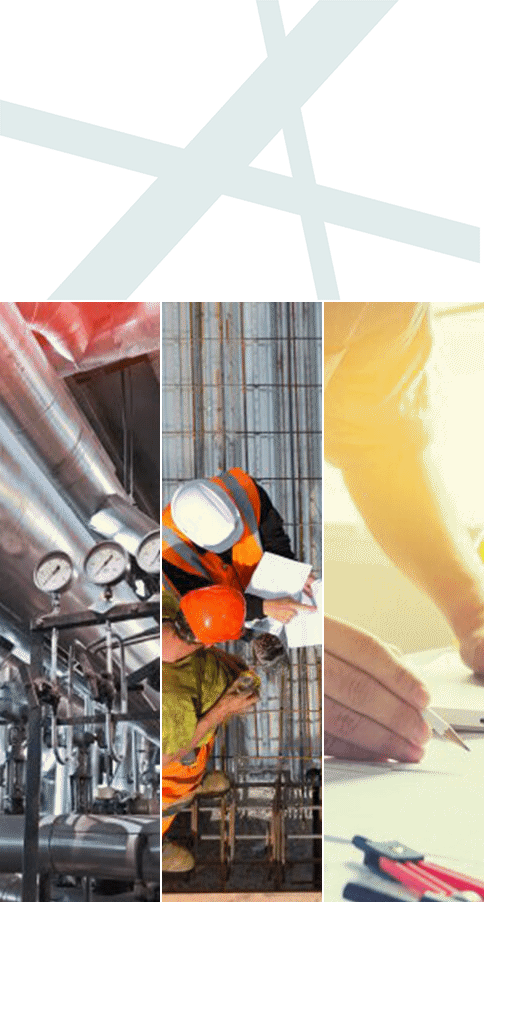
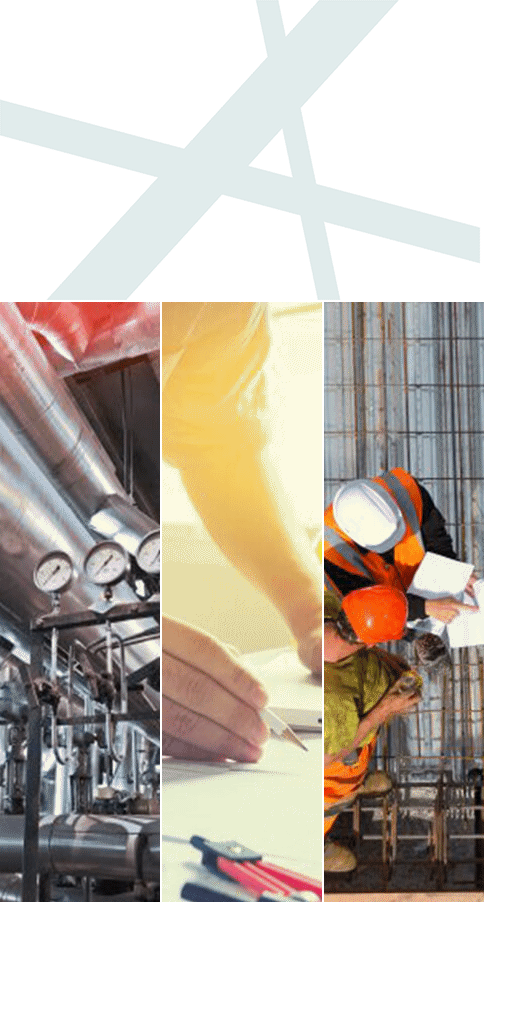
Add files via upload

diff --git a/projector_160x600.js b/projector_160x600.js
@@ -3,7 +3,7 @@
 var p; // shortcut to reference prototypes
 var lib={};var ss={};var img={};
 lib.ssMetadata = [
-		{name:"projector_160x600_atlas_", frames: [[324,302,160,600],[0,302,160,600],[162,302,160,600],[0,0,480,300]]}
+		{name:"projector_160x600_atlas_", frames: [[162,302,160,600],[0,302,160,600],[324,302,160,600],[0,0,480,300]]}
 ];
 
 
@@ -532,164 +532,164 @@ function getMCSymbolPrototype(symbol, nominalBounds, frameBounds) {
 
 	// Layer_1
 	this.shape = new cjs.Shape();
-	this.shape.graphics.f("#1F4340").s().p("AgHA7IAAgSIAPAAIAAASgAgEAYIgBgPIgCgyIAAgQIAPAAIAAAQIgCArIAAAMIgBAKg");
-	this.shape.setTransform(-28.7,382.9);
+	this.shape.graphics.f("#1F4340").s().p("AgHA6IAAgRIAPAAIAAARgAgEAYIgBgPIgCgyIAAgRIAPAAIAAARIgCArIAAAMIgBAKg");
+	this.shape.setTransform(-28.7,392.9);
 
 	this.shape_1 = new cjs.Shape();
 	this.shape_1.graphics.f("#1F4340").s().p("AgHA4IAAhJIgSAAIAAgMIASAAIAAgaIAMAAIAAAaIAVAAIAAAMIgVAAIAABJg");
-	this.shape_1.setTransform(-32.4,383.1);
+	this.shape_1.setTransform(-32.4,393.1);
 
 	this.shape_2 = new cjs.Shape();
 	this.shape_2.graphics.f("#1F4340").s().p("AgOAsIgQgCIAAgMQARACAOAAQAIAAAEgBQAEgBACgDQABgDAAgFIgBgHQAAgBgBAAQAAgBAAAAQgBgBAAAAQAAgBgBAAIgHgBIgWgDQgHAAgFgDQgEgCgCgFQgBgEAAgIQAAgLAEgGQAEgFAHgCQAHgCALAAIAOABIANACIAAAMQgNgCgOAAIgLABQgEAAgCADQgDADAAAFIABAHQAAABABAAQAAABAAAAQABABAAAAQAAAAABAAIAHACIAWACQAIABADACQAEACACAEQACAFAAAKQAAAKgDAGQgEAGgGACQgIACgLAAg");
-	this.shape_2.setTransform(-38.1,384.4);
+	this.shape_2.setTransform(-38.1,394.4);
 
 	this.shape_3 = new cjs.Shape();
-	this.shape_3.graphics.f("#1F4340").s().p("AgZApQgGgFgCgHQgCgGAAgNIAAg1IANAAIAAAwQAAAMACAFQABAFAEABQAFACAKABQAJAAAGgEQAFgEABgGQABgFAAgMIAAgrIAOAAIAABWIgMAAIgBgMIgBAAQgDAGgHAEQgGADgMAAQgMAAgHgDg");
-	this.shape_3.setTransform(-45.9,384.5);
+	this.shape_3.graphics.f("#1F4340").s().p("AgZApQgGgFgCgGQgCgIAAgMIAAg1IANAAIAAAwQAAAMACAFQABAFAEABQAFADAKAAQAJAAAGgEQAFgEABgGQABgFAAgMIAAgrIAOAAIAABVIgMAAIgBgLIgBAAQgDAGgHAEQgGADgMAAQgMAAgHgDg");
+	this.shape_3.setTransform(-45.9,394.5);
 
 	this.shape_4 = new cjs.Shape();
 	this.shape_4.graphics.f("#1F4340").s().p("AgIA4IAAhJIgRAAIAAgMIARAAIAAgaIANAAIAAAaIAVAAIAAAMIgVAAIAABJg");
-	this.shape_4.setTransform(-52.6,383.1);
+	this.shape_4.setTransform(-52.6,393.1);
 
 	this.shape_5 = new cjs.Shape();
-	this.shape_5.graphics.f("#1F4340").s().p("AgUAsIAAhVIAMAAIAAAQIABAAQAEgLAGgDQAHgEALAAIAAAOQgLAAgHAFQgFADgCAHQgDAIAAALIAAAng");
-	this.shape_5.setTransform(-56.7,384.3);
+	this.shape_5.graphics.f("#1F4340").s().p("AgUAsIAAhVIAMAAIAAAQIABAAQAEgLAGgEQAHgDALAAIAAAOQgLAAgHAFQgFADgCAHQgDAIAAALIAAAng");
+	this.shape_5.setTransform(-56.7,394.3);
 
 	this.shape_6 = new cjs.Shape();
[1 lines of base64/hex data omitted]
-	this.shape_6.setTransform(-63.9,382.6);
+	this.shape_6.setTransform(-63.9,392.6);
 
 	this.shape_7 = new cjs.Shape();
[1 lines of base64/hex data omitted]
-	this.shape_7.setTransform(-72.1,382.6);
+	this.shape_7.setTransform(-72.1,392.6);
 
 	this.shape_8 = new cjs.Shape();
 	this.shape_8.graphics.f("#1F4340").s().p("AgHArIghhVIAPAAIAZBGIABAAIAZhGIAOAAIggBVg");
-	this.shape_8.setTransform(-79.6,384.4);
+	this.shape_8.setTransform(-79.6,394.4);
 
 	this.shape_9 = new cjs.Shape();
[1 lines of base64/hex data omitted]
-	this.shape_9.setTransform(-90.3,382.5);
[1 lines of base64/hex data omitted]
+	this.shape_9.setTransform(-90.3,392.5);
 
 	this.shape_10 = new cjs.Shape();
 	this.shape_10.graphics.f("#1F4340").s().p("AgdAnQgGgFAAgPQAAgKACgFQACgFAGgCQAGgDAKAAIAgABIAAgFQAAgKgCgFQgCgEgFgBIgRgBIgOAAIgNACIAAgMQAOgDARAAQAPAAAIADQAHADADAIQACAHAAANIAAA1IgMAAIgBgMIgBAAQgDAIgIADQgIADgKAAQgPAAgHgGgAgQAFQgDABgBADQgCADAAAGQAAAGACADQABADAEABIANABQAIAAAFgBQAGgCACgEQAEgGAAgLIAAgEIgcAAIgLABg");
-	this.shape_10.setTransform(-98.7,384.4);
+	this.shape_10.setTransform(-98.7,394.4);
 
 	this.shape_11 = new cjs.Shape();
 	this.shape_11.graphics.f("#1F4340").s().p("AgIArIgghVIAPAAIAZBGIABAAIAahGIANAAIgfBVg");
-	this.shape_11.setTransform(-106.2,384.4);
+	this.shape_11.setTransform(-106.2,394.4);
 
 	this.shape_12 = new cjs.Shape();
 	this.shape_12.graphics.f("#1F4340").s().p("AgZApQgIgEgCgIQgCgJAAgUQAAgTACgJQACgJAIgDQAIgEARAAQASAAAIAEQAIADACAJQACAJAAATQAAAUgCAJQgCAIgIAEQgIAEgSAAQgRAAgIgEgAgQgdQgFACgBAGIgBAVIABAWQABAGAFACQAEACAMAAQANAAAEgCQAFgCABgGQABgGABgQQgBgPgBgGQgBgGgFgCQgEgCgNAAQgMAAgEACg");
-	this.shape_12.setTransform(-114.1,384.4);
+	this.shape_12.setTransform(-114.1,394.4);
 
 	this.shape_13 = new cjs.Shape();
 	this.shape_13.graphics.f("#1F4340").s().p("AgZApQgHgEgDgIQgCgJAAgUQAAgTACgJQADgJAHgDQAIgEARAAQASAAAIAEQAIADACAJQACAJAAATQAAAUgCAJQgCAIgIAEQgIAEgSAAQgRAAgIgEgAgQgdQgFACgBAGIgBAVIABAWQABAGAFACQAFACALAAQANAAAFgCQAEgCABgGQACgGAAgQQAAgPgCgGQgBgGgEgCQgFgCgNAAQgLAAgFACg");
-	this.shape_13.setTransform(-122.4,384.4);
+	this.shape_13.setTransform(-122.4,394.4);
 
 	this.shape_14 = new cjs.Shape();
 	this.shape_14.graphics.f("#1F4340").s().p("AgGA/IAAh9IANAAIAAB9g");
-	this.shape_14.setTransform(-128,382.4);
+	this.shape_14.setTransform(-128,392.4);
 
 	this.shape_15 = new cjs.Shape();
 	this.shape_15.graphics.f("#1F4340").s().p("AgOAsIgPgCIAAgMQAQACANAAQAJAAAEgBQAEgBABgDQACgDAAgFIgBgHQAAgBgBAAQAAgBAAAAQgBgBAAAAQgBgBAAAAIgIgBIgVgDQgHAAgFgDQgEgCgBgFQgCgEAAgIQAAgLAEgGQAEgFAHgCQAHgCALAAIAOABIANACIAAAMQgNgCgPAAIgKABQgFAAgCADQgCADAAAFIABAHQAAABABAAQAAABAAAAQABABAAAAQABAAAAAAIAHACIAXACQAGABAEACQAEACACAEQACAFAAAKQAAAKgEAGQgDAGgHACQgGACgMAAg");
-	this.shape_15.setTransform(-135.3,384.4);
+	this.shape_15.setTransform(-135.3,394.4);
 
 	this.shape_16 = new cjs.Shape();
 	this.shape_16.graphics.f("#1F4340").s().p("AgGA/IAAhVIANAAIAABVgAgGguIAAgQIANAAIAAAQg");
-	this.shape_16.setTransform(-140.2,382.4);
+	this.shape_16.setTransform(-140.2,392.4);
 
 	this.shape_17 = new cjs.Shape();
-	this.shape_17.graphics.f("#1F4340").s().p("AAuAsIAAgwIgBgRQgBgFgEgCQgEgBgJgBQgJAAgFADQgEAEgBAFIgBASIAAAsIgNAAIAAgwIgBgRQgCgFgDgCQgEgBgJgBQgJAAgFADQgEAEgCAGIgBARIAAAsIgNAAIAAhVIAMAAIAAALIABAAQADgGAGgDQAGgEAMAAQALAAAGADQAFAEACAGIABAAQAFgNAWAAQALAAAGAEQAGADACAHQACAHAAANIAAA1g");
-	this.shape_17.setTransform(-148.3,384.3);
+	this.shape_17.graphics.f("#1F4340").s().p("AAuAsIAAgwIgBgRQgBgFgEgCQgEgBgJgBQgJAAgFAEQgEADgBAGIgBARIAAAsIgNAAIAAgwIgBgRQgCgFgDgCQgEgBgJgBQgJAAgFAEQgEADgCAGIgBARIAAAsIgNAAIAAhVIAMAAIAAALIABAAQADgGAGgEQAGgDAMAAQALAAAGADQAFAEACAGIABAAQAFgNAWAAQALAAAGADQAGAEACAHQACAHAAANIAAA1g");
+	this.shape_17.setTransform(-148.3,394.3);
 
 	this.shape_18 = new cjs.Shape();
 	this.shape_18.graphics.f("#1F4340").s().p("AgJAMIAGgBIADgDIAAgHIAAgCIgFAAIAAgRIAPAAIAAAOQAAAJgCAFQgBAFgEACQgDACgJAAg");
-	this.shape_18.setTransform(-18.3,373.1);
+	this.shape_18.setTransform(-18.3,383.1);
 
 	this.shape_19 = new cjs.Shape();
[1 lines of base64/hex data omitted]
-	this.shape_19.setTransform(-23.7,366.7);
[1 lines of base64/hex data omitted]
+	this.shape_19.setTransform(-23.7,376.7);
 
 	this.shape_20 = new cjs.Shape();
 	this.shape_20.graphics.f("#1F4340").s().p("AgWApQgJgFgCgJQgCgJgBgSQABgRACgJQACgJAIgEQAJgFAQAAQAQAAAHAEQAIAFABAJQACAIAAASIAAAFIg5AAQAAAMABAFQABAGAHACQAFACANAAQANAAAPgCIAAAMIgPACIgRABQgQAAgIgEgAgNgdQgGACgBAFQgBAFAAAMIAtAAIAAgBQAAgLgCgGQgDgFgEgCQgEgBgKAAQgJAAgFACg");
-	this.shape_20.setTransform(-31.8,368.6);
+	this.shape_20.setTransform(-31.8,378.6);
 
 	this.shape_21 = new cjs.Shape();
 	this.shape_21.graphics.f("#1F4340").s().p("AgOAsIgQgCIAAgMQARACANAAQAJAAAEgBQAEgBABgDQACgDAAgFIgBgHQAAgBgBAAQAAgBAAAAQgBgBAAAAQAAgBgBAAIgIgBIgVgDQgIAAgEgDQgEgCgBgFQgCgEAAgIQAAgLAEgGQAEgFAHgCQAHgCALAAIAOABIANACIAAAMQgNgCgPAAIgKABQgEAAgDADQgCADAAAFIABAHQAAABABAAQAAABAAAAQABABAAAAQAAAAABAAIAHACIAWACQAIABADACQAFACABAEQACAFAAAKQAAAKgDAGQgEAGgGACQgIACgLAAg");
-	this.shape_21.setTransform(-39.2,368.6);
+	this.shape_21.setTransform(-39.2,378.6);
 
 	this.shape_22 = new cjs.Shape();
-	this.shape_22.graphics.f("#1F4340").s().p("AgYApQgHgFgCgHQgCgGAAgNIAAg1IANAAIAAAwQABAMABAFQACAFADABQAFACAKABQAKAAAEgEQAFgEACgGQACgFgBgMIAAgrIAOAAIAABWIgMAAIgBgMIgBAAQgDAGgHAEQgGADgMAAQgMAAgGgDg");
-	this.shape_22.setTransform(-47,368.7);
+	this.shape_22.graphics.f("#1F4340").s().p("AgYApQgHgFgCgGQgCgIAAgMIAAg1IANAAIAAAwQABAMABAFQACAFADABQAFADAKAAQAKAAAEgEQAFgEACgGQACgFgBgMIAAgrIAOAAIAABVIgMAAIgBgLIgBAAQgDAGgHAEQgGADgMAAQgMAAgGgDg");
+	this.shape_22.setTransform(-47,378.7);
 
 	this.shape_23 = new cjs.Shape();
[1 lines of base64/hex data omitted]
-	this.shape_23.setTransform(-55.8,366.7);
[1 lines of base64/hex data omitted]
+	this.shape_23.setTransform(-55.8,376.7);
 
 	this.shape_24 = new cjs.Shape();
-	this.shape_24.graphics.f("#1F4340").s().p("AAXAsIAAgwQAAgMgCgFQgBgFgFgCQgEgBgKgBQgKABgFADQgFADgBAGQgBAGAAALIAAAsIgOAAIAAhVIAMAAIABALIABAAQACgGAIgDQAGgEAMAAQAMAAAGAEQAHADACAHQACAHAAANIAAA1g");
-	this.shape_24.setTransform(-64.2,368.6);
+	this.shape_24.graphics.f("#1F4340").s().p("AAXAsIAAgwQAAgMgCgFQgBgFgFgCQgEgBgKgBQgKABgFADQgFADgBAGQgBAGAAALIAAAsIgOAAIAAhVIAMAAIABALIABAAQACgGAIgEQAGgDAMAAQAMAAAGADQAHAEACAHQACAHAAANIAAA1g");
+	this.shape_24.setTransform(-64.2,378.6);
 
 	this.shape_25 = new cjs.Shape();
 	this.shape_25.graphics.f("#1F4340").s().p("AgWApQgIgFgDgJQgDgJAAgSQAAgRADgJQACgJAIgEQAJgFAQAAQAQAAAHAEQAIAFABAJQACAIAAASIAAAFIg5AAQgBAMACAFQABAGAHACQAFACAMAAQAOAAAOgCIAAAMIgOACIgQABQgRAAgIgEgAgNgdQgGACgBAFQgCAFABAMIAsAAIAAgBQAAgLgBgGQgCgFgFgCQgFgBgIAAQgLAAgEACg");
-	this.shape_25.setTransform(-72.5,368.6);
+	this.shape_25.setTransform(-72.5,378.6);
 
 	this.shape_26 = new cjs.Shape();
[1 lines of base64/hex data omitted]
-	this.shape_26.setTransform(-80.8,366.6);
+	this.shape_26.setTransform(-80.8,376.6);
 
 	this.shape_27 = new cjs.Shape();
 	this.shape_27.graphics.f("#1F4340").s().p("AgdAnQgGgFAAgPQAAgKACgFQACgFAGgCQAGgDAKAAIAgABIAAgFQAAgKgCgFQgCgEgFgBIgRgBIgOAAIgNACIAAgMQAOgDARAAQAPAAAIADQAHADADAIQACAHAAANIAAA1IgMAAIgBgMIgBAAQgDAIgIADQgIADgKAAQgPAAgHgGgAgQAFQgDABgBADQgCADAAAGQAAAGACADQABADAEABIANABQAIAAAFgBQAGgCACgEQAEgGAAgLIAAgEIgcAAIgLABg");
-	this.shape_27.setTransform(-89.5,368.6);
+	this.shape_27.setTransform(-89.5,378.6);
 
 	this.shape_28 = new cjs.Shape();
 	this.shape_28.graphics.f("#1F4340").s().p("AgGA/IAAh9IANAAIAAB9g");
-	this.shape_28.setTransform(-94.7,366.6);
+	this.shape_28.setTransform(-94.7,376.6);
 
 	this.shape_29 = new cjs.Shape();
[1 lines of base64/hex data omitted]
-	this.shape_29.setTransform(-103,366.7);
[1 lines of base64/hex data omitted]
+	this.shape_29.setTransform(-103,376.7);
 
 	this.shape_30 = new cjs.Shape();
-	this.shape_30.graphics.f("#1F4340").s().p("AgYApQgHgFgCgHQgCgGAAgNIAAg1IANAAIAAAwQABAMABAFQACAFADABQAFACAKABQAKAAAEgEQAFgEACgGQACgFgBgMIAAgrIAOAAIAABWIgMAAIgBgMIgBAAQgDAGgHAEQgGADgMAAQgMAAgGgDg");
-	this.shape_30.setTransform(-111.4,368.7);
+	this.shape_30.graphics.f("#1F4340").s().p("AgYApQgHgFgCgGQgCgIAAgMIAAg1IANAAIAAAwQABAMABAFQACAFADABQAFADAKAAQAKAAAEgEQAFgEACgGQACgFgBgMIAAgrIAOAAIAABVIgMAAIgBgLIgBAAQgDAGgHAEQgGADgMAAQgMAAgGgDg");
+	this.shape_30.setTransform(-111.4,378.7);
 
 	this.shape_31 = new cjs.Shape();
[1 lines of base64/hex data omitted]
-	this.shape_31.setTransform(-119,366.6);
+	this.shape_31.setTransform(-119,376.6);
 
 	this.shape_32 = new cjs.Shape();
 	this.shape_32.graphics.f("#1F4340").s().p("AgGA/IAAhVIANAAIAABVgAgGguIAAgQIANAAIAAAQg");
-	this.shape_32.setTransform(-124.7,366.6);
+	this.shape_32.setTransform(-124.7,376.6);
 
 	this.shape_33 = new cjs.Shape();
 	this.shape_33.graphics.f("#1F4340").s().p("AgGA/IAAh9IANAAIAAB9g");
-	this.shape_33.setTransform(-127.5,366.6);
+	this.shape_33.setTransform(-127.5,376.6);
 
 	this.shape_34 = new cjs.Shape();
 	this.shape_34.graphics.f("#1F4340").s().p("AgIA4IAAhJIgRAAIAAgMIARAAIAAgaIANAAIAAAaIAVAAIAAAMIgVAAIAABJg");
-	this.shape_34.setTransform(-131.2,367.4);
+	this.shape_34.setTransform(-131.2,377.4);
 
 	this.shape_35 = new cjs.Shape();
 	this.shape_35.graphics.f("#1F4340").s().p("AgOAsIgPgCIAAgMQAQACANAAQAJAAAEgBQAEgBABgDQACgDAAgFIgBgHQAAgBgBAAQAAgBAAAAQgBgBAAAAQAAgBgBAAIgIgBIgVgDQgHAAgFgDQgEgCgBgFQgCgEAAgIQAAgLAEgGQAEgFAHgCQAHgCALAAIAOABIANACIAAAMQgNgCgPAAIgKABQgFAAgCADQgCADAAAFIABAHQAAABABAAQAAABAAAAQABABAAAAQABAAAAAAIAHACIAXACQAGABAEACQAEACACAEQACAFAAAKQAAAKgDAGQgEAGgHACQgGACgMAAg");
-	this.shape_35.setTransform(-137,368.6);
+	this.shape_35.setTransform(-137,378.6);
 
 	this.shape_36 = new cjs.Shape();
 	this.shape_36.graphics.f("#1F4340").s().p("AgGA/IAAhVIANAAIAABVgAgGguIAAgQIANAAIAAAQg");
-	this.shape_36.setTransform(-141.9,366.6);
+	this.shape_36.setTransform(-141.9,376.6);
 
 	this.shape_37 = new cjs.Shape();
-	this.shape_37.graphics.f("#1F4340").s().p("AgZA8QgIgEgCgIQgCgJAAgUQAAgTACgIQACgKAIgDQAIgDARgBQASABAIADQAIADACAKQACAIAAATQAAAUgCAJQgCAIgIAEQgIAEgSAAQgRAAgIgEgAgQgKQgFACgBAHIgBAUIABAWQABAGAFACQAEADAMAAQANAAAEgDQAFgCABgGQABgGABgQQgBgQgBgEQgBgHgFgCQgEgCgNAAQgMAAgEACgAgdgpIAAgLQABgEACgDQADgCAGAAIAIABIALADIAFACIAGABIAEABQABAAABgBQABAAAAAAQABAAAAgBQABAAAAAAIABgIIAIAAIgBAMQgBAEgDACQgCACgGAAIgJgBIgKgDQgKgDgGAAQAAAAgBAAQgBAAAAAAQgBABAAAAQgBAAAAAAIAAAIg");
-	this.shape_37.setTransform(-147.4,366.7);
+	this.shape_37.graphics.f("#1F4340").s().p("AgZA8QgIgDgCgJQgCgJAAgUQAAgTACgJQACgJAIgDQAIgDARgBQASABAIADQAIADACAJQACAJAAATQAAAUgCAJQgCAJgIADQgIAEgSAAQgRAAgIgEgAgQgKQgFADgBAGIgBAUIABAWQABAGAFACQAEACAMABQANgBAEgCQAFgCABgGQABgGABgQQgBgQgBgEQgBgGgFgDQgEgCgNAAQgMAAgEACgAgdgpIAAgMQABgDACgDQADgCAGAAIAIABIALADIAFACIAGABIAEAAQABAAABAAQABAAAAAAQABAAAAgBQABAAAAAAIABgIIAIAAIgBAMQgBAEgDACQgCACgGAAIgJgBIgKgDQgKgDgGAAQAAAAgBAAQgBAAAAAAQgBABAAAAQgBAAAAABIAAAHg");
+	this.shape_37.setTransform(-147.4,376.7);
 
 	this.shape_38 = new cjs.Shape();
[1 lines of base64/hex data omitted]
-	this.shape_38.setTransform(-158.5,367.1);
[1 lines of base64/hex data omitted]
+	this.shape_38.setTransform(-158.5,377.1);
 
 	this.timeline.addTween(cjs.Tween.get({}).to({state:[{t:this.shape_38},{t:this.shape_37},{t:this.shape_36},{t:this.shape_35},{t:this.shape_34},{t:this.shape_33},{t:this.shape_32},{t:this.shape_31},{t:this.shape_30},{t:this.shape_29},{t:this.shape_28},{t:this.shape_27},{t:this.shape_26},{t:this.shape_25},{t:this.shape_24},{t:this.shape_23},{t:this.shape_22},{t:this.shape_21},{t:this.shape_20},{t:this.shape_19},{t:this.shape_18},{t:this.shape_17},{t:this.shape_16},{t:this.shape_15},{t:this.shape_14},{t:this.shape_13},{t:this.shape_12},{t:this.shape_11},{t:this.shape_10},{t:this.shape_9},{t:this.shape_8},{t:this.shape_7},{t:this.shape_6},{t:this.shape_5},{t:this.shape_4},{t:this.shape_3},{t:this.shape_2},{t:this.shape_1},{t:this.shape}]}).wait(1));
 
-}).prototype = getMCSymbolPrototype(lib.slogan, new cjs.Rectangle(-168.3,351.7,152.6,46.5), null);
+}).prototype = getMCSymbolPrototype(lib.slogan, new cjs.Rectangle(-168.3,361.7,152.6,46.5), null);
 
 
 (lib.logobg = function(mode,startPosition,loop) {
@@ -803,40 +803,40 @@ function getMCSymbolPrototype(symbol, nominalBounds, frameBounds) {
 
 	// Layer_1
 	this.shape = new cjs.Shape();
-	this.shape.graphics.f("#FFFFFF").s().p("AAdAxIgJgYIgoAAIgIAYIgQAAIAjhhIATAAIAjBhgAAQALIgQgqIAAAAIgPAqIAfAAg");
-	this.shape.setTransform(-53.8,199.4);
+	this.shape.graphics.f("#FFFFFF").s().p("AAdAxIgJgYIgoAAIgIAYIgQAAIAjhgIATAAIAjBggAAQALIgQgqIAAAAIgPAqIAfAAg");
+	this.shape.setTransform(-53.8,252.4);
 
 	this.shape_1 = new cjs.Shape();
-	this.shape_1.graphics.f("#FFFFFF").s().p("AgPAxIgRgBIAAgPIAfACIALgBIAGgCQABAAAAAAQABgBAAAAQAAgBABAAQAAgBAAAAIAAgIIAAgIQAAAAAAgBQgBAAAAgBQAAAAgBAAQAAgBAAAAQgCgBgFgBIgXgDQgIAAgFgDQgFgDgCgFQgCgGABgJQAAgLAEgHQAEgGAIgCQAHgBALgBIARABIAOACIAAAOIgNgCIgPAAIgKAAIgIACQgCABAAADIgBAHIABAHQAAAAAAABQAAAAAAABQABAAAAAAQABABAAAAIAIACIAVADQAIAAAFACQAEADACAEQACAGABALQAAANgFAHQgDAGgIACQgHABgLABg");
-	this.shape_1.setTransform(-65.4,199.4);
+	this.shape_1.graphics.f("#FFFFFF").s().p("AgPAxIgRgBIAAgPIAfACIALgBIAGgBQABgBAAAAQABgBAAAAQAAgBABAAQAAgBAAAAIAAgIIAAgHQAAgBAAgBQgBAAAAgBQAAAAgBAAQAAgBAAAAQgCgBgFgBIgXgDQgIAAgFgDQgFgDgCgFQgCgGABgJQAAgMAEgGQAEgGAIgCQAHgCALABIARAAIAOACIAAAOIgNgCIgPgBIgKABIgIACQgCABAAADIgBAHIABAHQAAAAAAABQAAAAAAABQABAAAAAAQABABAAAAIAIACIAVADQAIAAAFADQAEACACAEQACAGABALQAAANgFAHQgDAGgIACQgHACgLAAg");
+	this.shape_1.setTransform(-65.4,252.4);
 
 	this.shape_2 = new cjs.Shape();
-	this.shape_2.graphics.f("#FFFFFF").s().p("AgHAxIAAhhIAPAAIAABhg");
-	this.shape_2.setTransform(-74.2,199.4);
+	this.shape_2.graphics.f("#FFFFFF").s().p("AgHAxIAAhgIAPAAIAABgg");
+	this.shape_2.setTransform(-74.2,252.4);
 
 	this.shape_3 = new cjs.Shape();
-	this.shape_3.graphics.f("#FFFFFF").s().p("AgdAxIAAhhIARAAIAABRIAqAAIAAAQg");
-	this.shape_3.setTransform(-82,199.4);
+	this.shape_3.graphics.f("#FFFFFF").s().p("AgdAxIAAhgIARAAIAABQIAqAAIAAAQg");
+	this.shape_3.setTransform(-82,252.4);
 
 	this.shape_4 = new cjs.Shape();
-	this.shape_4.graphics.f("#FFFFFF").s().p("AggAxIAAhhIBAAAIAAAPIgvAAIAAAbIApAAIAAAMIgpAAIAAAcIAvAAIAAAPg");
-	this.shape_4.setTransform(-98.3,199.4);
+	this.shape_4.graphics.f("#FFFFFF").s().p("AggAxIAAhgIBAAAIAAAOIgvAAIAAAbIApAAIAAAMIgpAAIAAAcIAvAAIAAAPg");
+	this.shape_4.setTransform(-98.3,252.4);
 
 	this.shape_5 = new cjs.Shape();
-	this.shape_5.graphics.f("#FFFFFF").s().p("AgbAuQgIgFgCgJQgDgJAAgXQAAgWADgJQACgKAIgEQAJgDASgBQAUABAIADQAIAEACAKQADAJAAAWQAAAWgDAKQgCAJgIAFQgIADgUABQgSgBgJgDgAgQggQgFABgBAHQgCAHAAARQAAASACAHQABAHAFABQAEACAMAAQANAAAFgCQAEgBABgHQACgHAAgSQAAgRgCgHQgBgHgEgBQgFgCgNAAQgMAAgEACg");
-	this.shape_5.setTransform(-110.3,199.4);
+	this.shape_5.graphics.f("#FFFFFF").s().p("AgbAtQgIgEgCgJQgDgJAAgXQAAgWADgJQACgKAIgEQAJgDASAAQAUAAAIADQAIAEACAKQADAJAAAWQAAAWgDAKQgCAJgIAEQgIAFgUAAQgSAAgJgFgAgQggQgFABgBAHQgCAHAAARQAAASACAHQABAHAFABQAEACAMAAQANAAAFgCQAEgBABgHQACgHAAgSQAAgRgCgHQgBgHgEgBQgFgCgNgBQgMABgEACg");
+	this.shape_5.setTransform(-110.3,252.4);
 
 	this.shape_6 = new cjs.Shape();
-	this.shape_6.graphics.f("#FFFFFF").s().p("AgcAxIAAhhIAQAAIAABRIApAAIAAAQg");
-	this.shape_6.setTransform(-121,199.4);
+	this.shape_6.graphics.f("#FFFFFF").s().p("AgcAxIAAhgIAQAAIAABQIApAAIAAAQg");
+	this.shape_6.setTransform(-121,252.4);
 
 	this.shape_7 = new cjs.Shape();
-	this.shape_7.graphics.f("#EA322E").s().p("ApHC2QgEAAAAgIIAAlbQAAgIAEAAISPAAQAFAAgBAIIAAFbQABAIgFAAg");
-	this.shape_7.setTransform(-88.1,199.8);
+	this.shape_7.graphics.f("#EA322E").s().p("ApHC2QgEAAAAgIIAAlcQAAgHAEAAISPAAQAFAAgBAHIAAFcQABAIgFAAg");
+	this.shape_7.setTransform(-88.1,252.8);
 
 	this.timeline.addTween(cjs.Tween.get({}).to({state:[{t:this.shape_7},{t:this.shape_6},{t:this.shape_5},{t:this.shape_4},{t:this.shape_3},{t:this.shape_2},{t:this.shape_1},{t:this.shape}]}).wait(1));
 
-}).prototype = getMCSymbolPrototype(lib.btn, new cjs.Rectangle(-147,181.6,117.7,36.4), null);
+}).prototype = getMCSymbolPrototype(lib.btn, new cjs.Rectangle(-147,234.6,117.7,36.4), null);
 
 
 (lib.boxtrans2 = function(mode,startPosition,loop) {
@@ -1028,7 +1028,7 @@ if (loop == null) { loop = false; }	this.initialize(mode,startPosition,loop,{});
 	this.instance_8.alpha = 0;
 	this.instance_8._off = true;
 
-	this.timeline.addTween(cjs.Tween.get(this.instance_8).wait(149).to({_off:false},0).to({x:170,y:233,alpha:1},10,cjs.Ease.get(1)).wait(80).to({alpha:0},11).wait(1));
+	this.timeline.addTween(cjs.Tween.get(this.instance_8).wait(160).to({_off:false},0).to({x:170,y:233,alpha:1},10,cjs.Ease.get(1)).wait(69).to({alpha:0},11).wait(1));
 
 	// slogan
 	this.instance_9 = new lib.slogan();
@@ -1037,7 +1037,7 @@ if (loop == null) { loop = false; }	this.initialize(mode,startPosition,loop,{});
 	this.instance_9.alpha = 0;
 	this.instance_9._off = true;
 
-	this.timeline.addTween(cjs.Tween.get(this.instance_9).wait(159).to({_off:false},0).to({alpha:1},10).wait(70).to({alpha:0},11).wait(1));
+	this.timeline.addTween(cjs.Tween.get(this.instance_9).wait(160).to({_off:false},0).to({alpha:1},10).wait(69).to({alpha:0},11).wait(1));
 
 	// logo
 	this.instance_10 = new lib.logo();
@@ -1045,7 +1045,7 @@ if (loop == null) { loop = false; }	this.initialize(mode,startPosition,loop,{});
 	this.instance_10.setTransform(121,-20.5,1.601,1.601);
 	this.instance_10.alpha = 0;
 
-	this.timeline.addTween(cjs.Tween.get(this.instance_10).to({y:224.5,alpha:1},18,cjs.Ease.get(1)).wait(131).to({y:168.5},10,cjs.Ease.get(1)).wait(80).to({y:167.5,alpha:0},11).wait(1));
+	this.timeline.addTween(cjs.Tween.get(this.instance_10).to({y:224.5,alpha:1},18,cjs.Ease.get(1)).wait(131).to({alpha:0},10).to({_off:true},1).wait(91));
 
 	// Layer_2
 	this.instance_11 = new lib.logobg();
@@ -1053,7 +1053,7 @@ if (loop == null) { loop = false; }	this.initialize(mode,startPosition,loop,{});
 	this.instance_11.setTransform(49.5,337.5);
 	this.instance_11._off = true;
 
-	this.timeline.addTween(cjs.Tween.get(this.instance_11).wait(1).to({_off:false},0).wait(148).to({y:277.5},10,cjs.Ease.get(1)).to({_off:true},81).wait(11));
+	this.timeline.addTween(cjs.Tween.get(this.instance_11).wait(1).to({_off:false},0).wait(238).to({alpha:0},11).wait(1));
 
 	// A
 	this.instance_12 = new lib.A_1();
